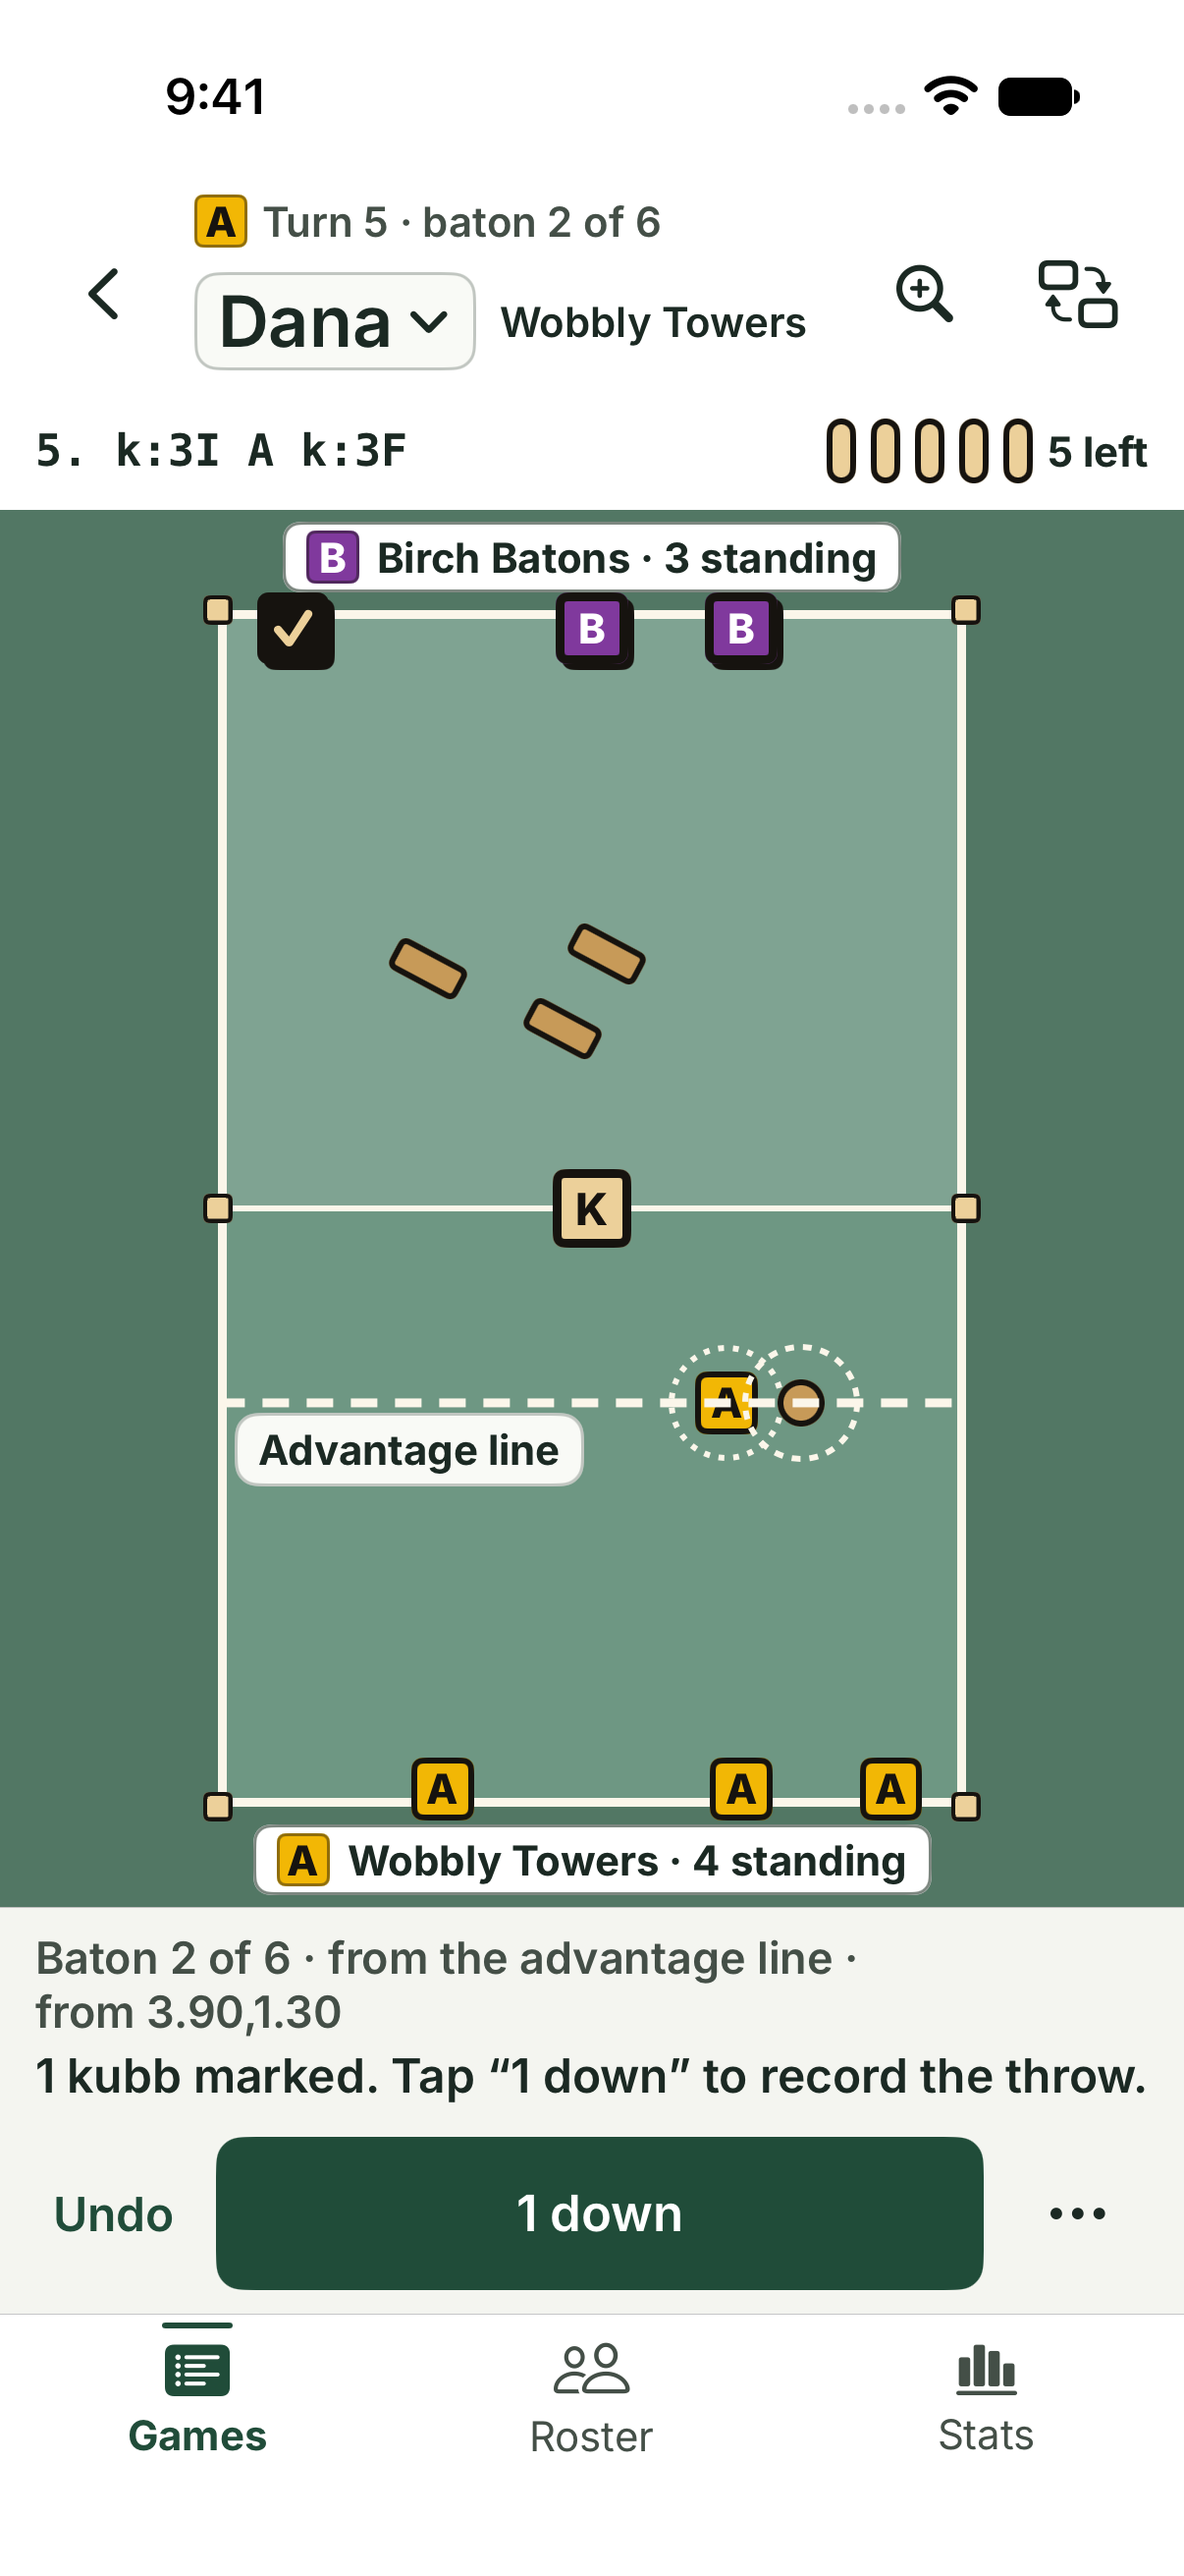
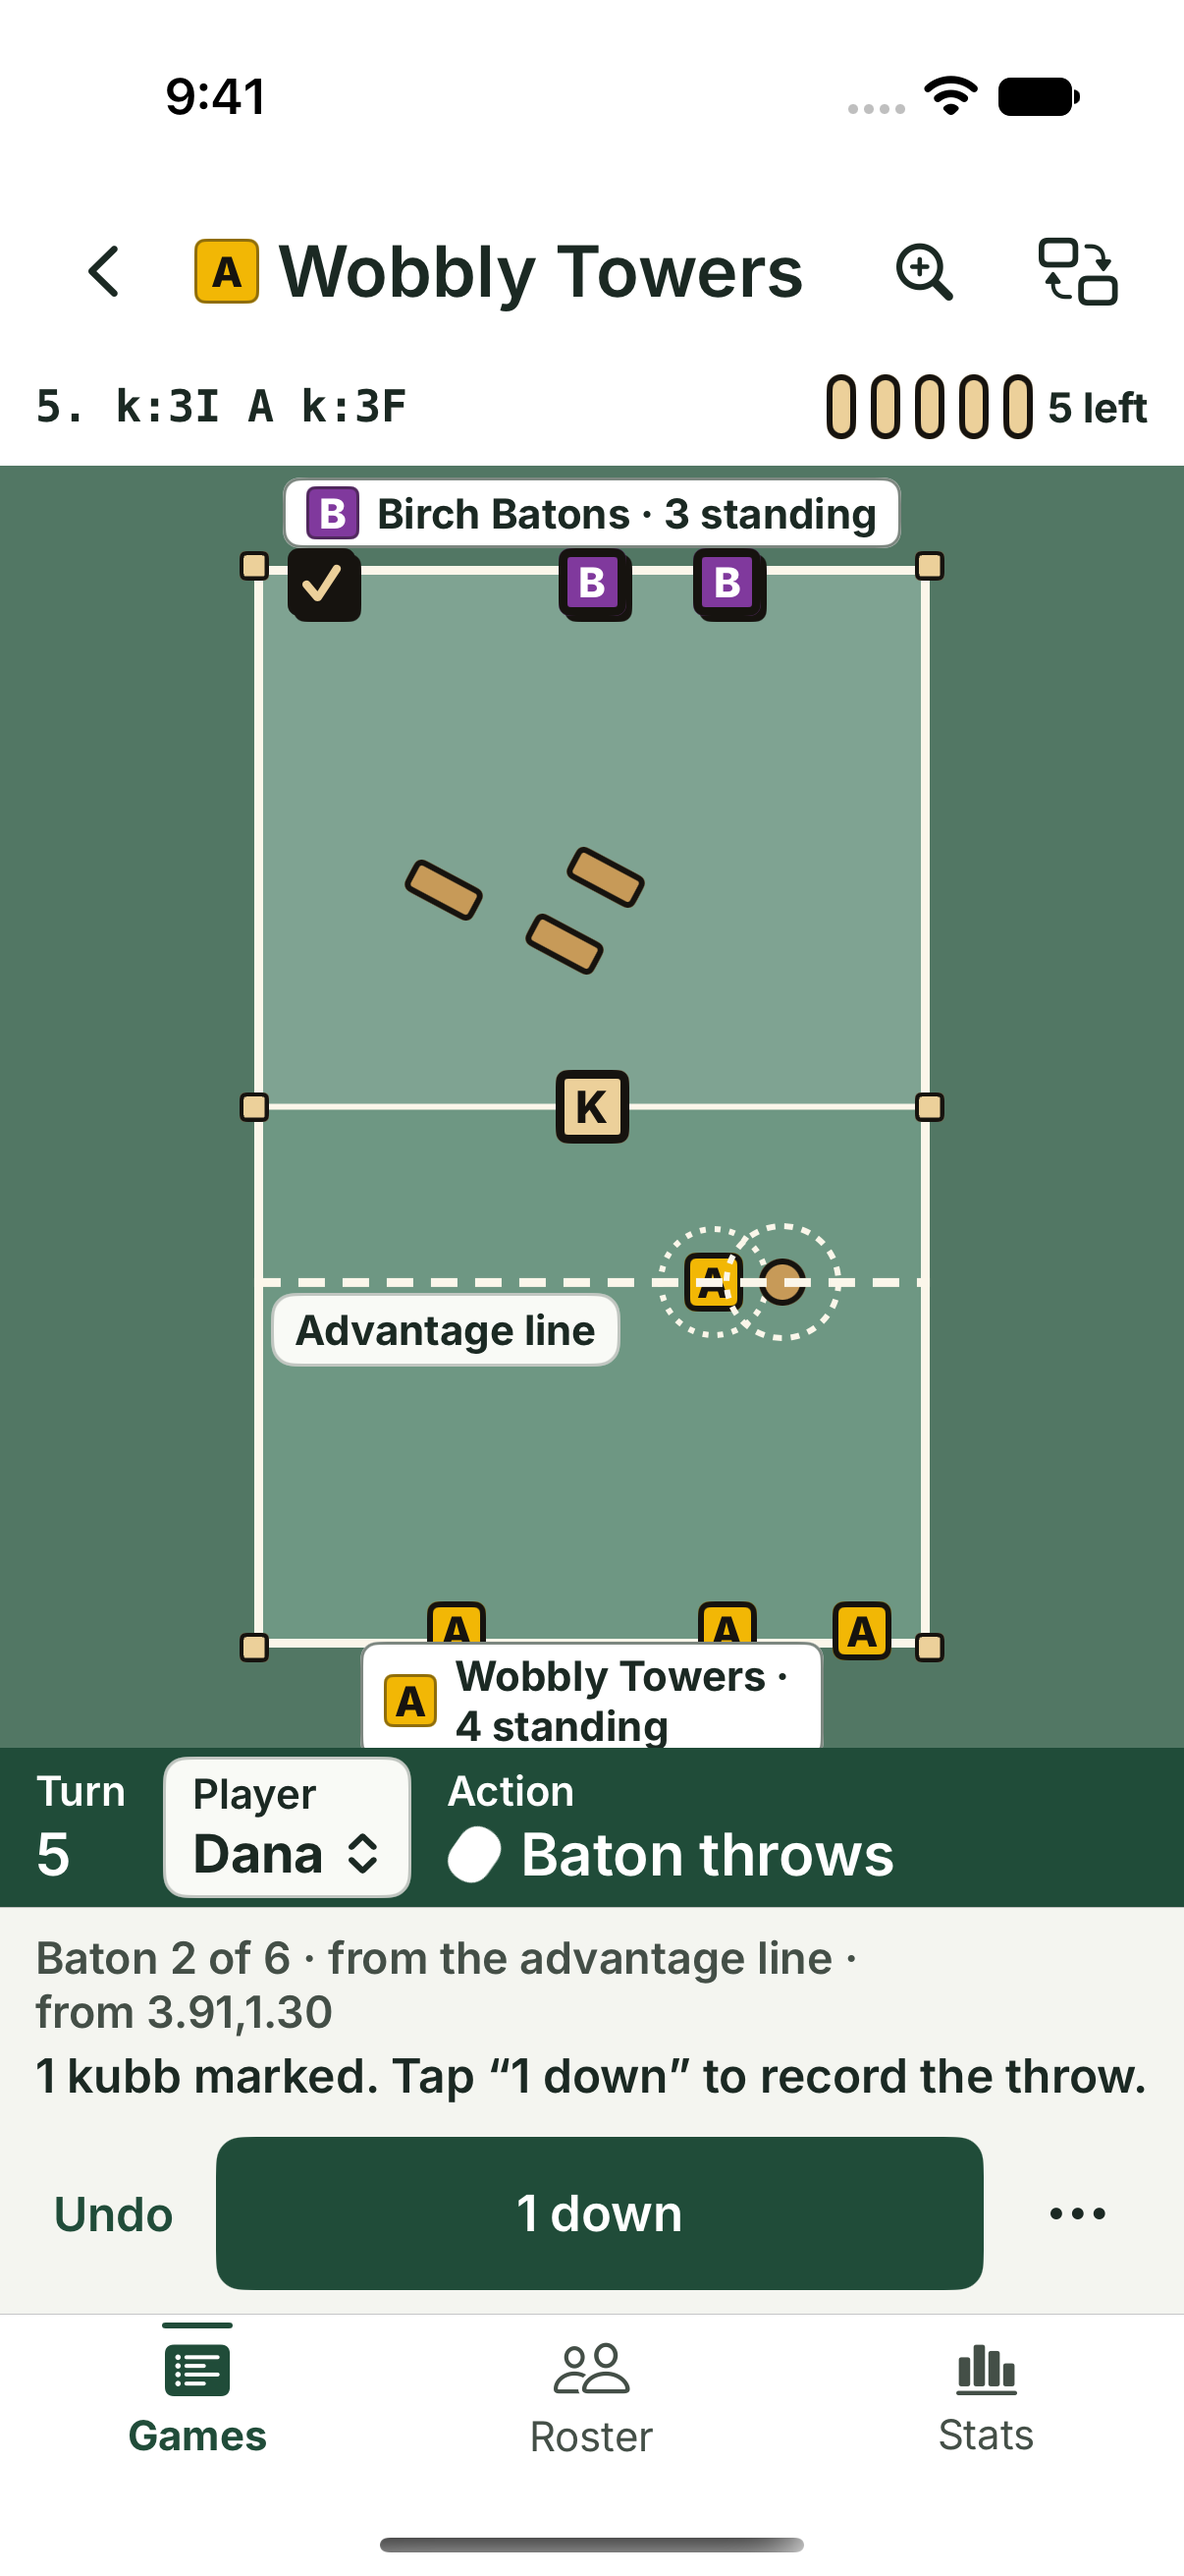
Present each throw as turn, player, and action

diff --git a/Pitchside/ScorerView.swift b/Pitchside/ScorerView.swift
@@ -5,6 +5,7 @@ import SwiftUI
 /// The band, pitch and thumb controls stay in place through every turn.
 struct ScorerView: View {
   @Environment(AppModel.self) private var model
+  @Environment(\.dynamicTypeSize) private var typeSize
   @State private var replay: GameReplay?
   @State private var screen: ScorerScreen
   @State private var timeline = false
@@ -33,24 +34,21 @@ struct ScorerView: View {
         VStack(spacing: 0) {
           VStack(spacing: 0) {
             header
-            batonBar
+            turnProgress
           }
           .padding(.horizontal, 12).padding(.bottom, 4)
           .background(Color.psPlate.ignoresSafeArea(edges: .top))
-          PitchCanvas(screen: screen, viewport: $viewport)
-            .frame(maxHeight: .infinity)
-            .overlay(alignment: .bottom) {
-              if screen.panel != .none && screen.panel != .pick {
-                ViewThatFits(in: .vertical) {
-                  panel.padding(12).fixedSize(horizontal: false, vertical: true)
-                  ScrollView { panel.padding(12) }.scrollBounceBehavior(.basedOnSize)
-                }
-                .background(Color.psGround)
-                .overlay(alignment: .top) { Divider().overlay(Color.psLine) }
+          if typeSize.isAccessibilitySize {
+            GeometryReader { area in
+              VStack(spacing: 0) {
+                pitch.frame(height: area.size.height * 0.4)
+                ScrollView { scoringControls }
               }
             }
-          prompt
-          bottomBar
+          } else {
+            pitch
+            scoringControls
+          }
         }
         .foregroundStyle(Color.psText)
         .background(Color.psGround)
@@ -61,33 +59,35 @@ struct ScorerView: View {
     .onChange(of: screen.over) { _, over in if over { close() } }
   }
 
+  private var pitch: some View {
+    PitchCanvas(screen: screen, viewport: $viewport)
+      .frame(maxHeight: .infinity)
+      .overlay(alignment: .bottom) {
+        if screen.panel != .none && screen.panel != .pick {
+          ViewThatFits(in: .vertical) {
+            panel.padding(12).fixedSize(horizontal: false, vertical: true)
+            ScrollView { panel.padding(12) }.scrollBounceBehavior(.basedOnSize)
+          }
+          .background(Color.psGround)
+          .overlay(alignment: .top) { Divider().overlay(Color.psLine) }
+        }
+      }
+  }
+
+  private var scoringControls: some View {
+    VStack(spacing: 0) {
+      if !screen.over { throwContext }
+      prompt
+      bottomBar
+    }
+  }
+
   var header: some View {
     HStack(spacing: 6) {
       icon("chevron.backward", "Back to Games", action: close)
-      VStack(alignment: .leading, spacing: 1) {
-        HStack(spacing: 5) {
-          TeamMarker(screen.attacker, size: 18)
-          Text(screen.header).font(PSFont.body(14, .semibold)).foregroundStyle(Color.psMuted)
-        }
-        if screen.playersOn, let player = screen.thrower, !screen.over {
-          HStack(spacing: 8) {
-            Button {
-              screen.panel = screen.panel == .pick ? .none : .pick
-            } label: {
-              HStack(spacing: 4) {
-                Text(player.name).font(PSFont.display(24))
-                Image(systemName: "chevron.down").font(.system(size: 14, weight: .bold))
-              }.padding(.horizontal, 8).padding(.vertical, 2).psBox()
-                .frame(minWidth: 48, minHeight: 48).contentShape(Rectangle())
-            }
-            .buttonStyle(.plain).accessibilityLabel("Change who throws")
-            .accessibilityValue(player.name)
-            Text(screen.teamName(screen.attacker)).font(PSFont.body(14, .semibold)).lineLimit(2)
-          }
-        } else {
-          Text(screen.teamName(screen.attacker)).font(PSFont.display(26)).lineLimit(2)
-        }
-      }.frame(maxWidth: .infinity, alignment: .leading)
+      TeamMarker(screen.attacker, size: 22)
+      Text(screen.teamName(screen.attacker)).font(PSFont.display(24)).lineLimit(2)
+        .frame(maxWidth: .infinity, alignment: .leading)
       HStack(spacing: 4) {
         icon(
           viewport.scale == 1 ? "plus.magnifyingglass" : "arrow.down.right.and.arrow.up.left",
@@ -108,22 +108,92 @@ struct ScorerView: View {
     .padding(.vertical, 4).frame(minHeight: 60)
   }
 
-  var batonBar: some View {
+  var turnProgress: some View {
     HStack(spacing: 5) {
       ScrollView(.horizontal) {
         Text("\(screen.state.turn). \(screen.tokens)").font(PSFont.mono(15).weight(.bold))
       }.scrollIndicators(.hidden).defaultScrollAnchor(.leading)
         .frame(maxWidth: .infinity, alignment: .leading)
-      ForEach(0..<screen.batonsLeft, id: \.self) { _ in
-        Capsule().fill(Color.psKubb).overlay(Capsule().strokeBorder(Color.psKubbInk, lineWidth: 2))
-          .frame(width: 10, height: 22)
+      if screen.isInkast {
+        Text("\(screen.state.inkast?.left ?? 0) to throw").font(PSFont.body(14, .bold))
+      } else if !screen.placing && !screen.punishPending {
+        if !typeSize.isAccessibilitySize {
+          ForEach(0..<screen.batonsLeft, id: \.self) { _ in
+            Capsule().fill(Color.psKubb).overlay(Capsule().strokeBorder(Color.psKubbInk, lineWidth: 2))
+              .frame(width: 10, height: 22)
+              .accessibilityHidden(true)
+          }
+        }
+        Text("\(screen.batonsLeft) left").font(PSFont.body(14, .bold))
+          .accessibilityLabel("\(screen.n(screen.batonsLeft, "baton")) left")
       }
-      Text("\(screen.batonsLeft) left").font(PSFont.body(14, .bold))
     }
     .frame(minHeight: 32)
-    .accessibilityElement(children: .ignore)
-    .accessibilityLabel(
-      "Turn \(screen.state.turn), \(screen.tokens), \(screen.batonsLeft) batons left")
+    .accessibilityElement(children: .combine)
+  }
+
+  private var throwContext: some View {
+    let handlesKubbs = screen.isInkast || screen.punishPending || screen.placing
+    let layout = typeSize.isAccessibilitySize
+      ? AnyLayout(VStackLayout(alignment: .leading, spacing: 2))
+      : AnyLayout(HStackLayout(spacing: 12))
+    return layout {
+      VStack(alignment: .leading, spacing: 1) {
+        Text("Turn").font(PSFont.body(14, .semibold, relativeTo: .footnote))
+        Text("\(screen.state.turn)").font(PSFont.display(20, relativeTo: .headline))
+      }
+      .accessibilityElement(children: .ignore)
+      .accessibilityLabel("Turn \(screen.state.turn)")
+      .accessibilityIdentifier("entry-turn")
+
+      if !screen.placing && !screen.punishPending {
+        if screen.playersOn, let player = screen.thrower {
+          Button {
+            screen.panel = screen.panel == .pick ? .none : .pick
+          } label: {
+            VStack(alignment: .leading, spacing: 1) {
+              Text("Player").font(PSFont.body(14, .semibold, relativeTo: .footnote))
+              HStack(spacing: 6) {
+                Text(player.name).font(PSFont.body(18, .bold, relativeTo: .headline))
+                Image(systemName: "chevron.up.chevron.down").font(.footnote.weight(.bold))
+              }
+            }
+            .padding(.horizontal, 10).padding(.vertical, 4)
+            .foregroundStyle(Color.psText).psBox()
+            .frame(minWidth: 48, minHeight: 48).contentShape(Rectangle())
+          }
+          .buttonStyle(.plain).accessibilityLabel("Change who throws").accessibilityValue(player.name)
+        } else {
+          VStack(alignment: .leading, spacing: 1) {
+            Text("Player").font(PSFont.body(14, .semibold, relativeTo: .footnote))
+            Text("Not tracked").font(PSFont.body(16, .semibold))
+          }
+          .accessibilityElement(children: .combine)
+        }
+      }
+
+      VStack(alignment: .leading, spacing: 1) {
+        Text("Action").font(PSFont.body(14, .semibold, relativeTo: .footnote))
+        HStack(spacing: 6) {
+          Image(systemName: handlesKubbs ? "cube.fill" : "capsule.portrait.fill")
+            .rotationEffect(.degrees(handlesKubbs ? 0 : 35))
+            .accessibilityHidden(true)
+          Text(screen.placing ? "Place kubbs" : (handlesKubbs ? "Inkast" : "Baton throws"))
+            .font(PSFont.display(20, relativeTo: .headline))
+            .accessibilityAddTraits(.isHeader)
+        }
+      }
+      .frame(maxWidth: .infinity, alignment: .leading)
+    }
+    .frame(maxWidth: .infinity, alignment: .leading)
+    .padding(.horizontal, 12).padding(.vertical, 3)
+    .frame(minHeight: 48)
+    .fixedSize(horizontal: false, vertical: true)
+    .foregroundStyle(handlesKubbs ? Color.psText : Color.psOnSolid)
+    .background(handlesKubbs ? Color.psWood : Color.psSolid)
+    .onChange(of: screen.firstBatonAfterInkast) { _, starts in
+      if starts { AccessibilityNotification.Announcement("Inkast complete. Throw batons.").post() }
+    }
   }
 
   @ViewBuilder var prompt: some View {
@@ -138,12 +208,17 @@ struct ScorerView: View {
             ForEach(screen.players, id: \.id) { p in
               Button(p.name) { screen.choose(p) }
                 .buttonStyle(PSButtonStyle(solid: screen.thrower?.id == p.id, minHeight: 48))
+                .accessibilityAddTraits(screen.thrower?.id == p.id ? [.isSelected] : [])
             }
           }.padding(.trailing, 4).padding(.bottom, 4)
         }.scrollIndicators(.hidden)
       } else {
         HStack {
           VStack(alignment: .leading, spacing: 3) {
+            if screen.firstBatonAfterInkast {
+              Label("Inkast complete", systemImage: "checkmark.circle.fill")
+                .font(PSFont.body(16, .bold)).foregroundStyle(Color.psSolid)
+            }
             Text(screen.kick).psKick()
             Text(screen.problem ?? screen.text).font(PSFont.body(16, .semibold))
           }.frame(maxWidth: .infinity, alignment: .leading)
@@ -191,7 +266,10 @@ struct ScorerView: View {
   }
 
   var bottomBar: some View {
-    HStack(spacing: 8) {
+    let layout = typeSize >= .accessibility2
+      ? AnyLayout(VStackLayout(spacing: 4))
+      : AnyLayout(HStackLayout(spacing: 8))
+    return layout {
       if screen.redoAction != nil {
         icon("arrow.uturn.backward", "Undo", action: screen.undo).disabled(screen.undoAction == nil)
         icon("arrow.uturn.forward", "Redo", action: screen.redo)

diff --git a/PitchsideUITests/ScoringTests.swift b/PitchsideUITests/ScoringTests.swift
@@ -59,11 +59,21 @@ final class ScoringTests: XCTestCase {
   func testWorkedGameAndViews() {
     launch("scorer", after: 0)
 
-    // Establish the first four turns of the design through the same controls as turn five.
+    // The turn changes after the second opening baton. The next entry belongs to Team B's inkaster.
+    let turn = app.descendants(matching: .any)["entry-turn"]
+    let player = app.buttons["Change who throws"]
+    XCTAssertEqual(turn.label, "Turn 1")
+    XCTAssertEqual(player.value as? String, "Kim")
+    XCTAssertFalse(app.staticTexts["Inkast complete"].exists)
     tap("bB1")
     tap("1 down")
+    XCTAssertEqual(turn.label, "Turn 1")
+    XCTAssertEqual(player.value as? String, "Dana")
     tap("bB3")
     tap("1 down")
+    XCTAssertEqual(turn.label, "Turn 2")
+    XCTAssertEqual(player.value as? String, "Sam")
+    XCTAssertTrue(app.staticTexts["Inkast"].exists)
     spot(1.2, 1.6)
     spot(3.6, 2.9)
     tap("fA0")
@@ -206,17 +216,43 @@ final class ScoringTests: XCTestCase {
   func testPlaceInkastOnZoomedPitch() {
     launch("scorer", after: 28)
     let pitch = app.descendants(matching: .any).matching(identifier: "pitch").firstMatch
+    let thrower = app.buttons["Change who throws"]
+    let turn = app.descendants(matching: .any)["entry-turn"]
+    let inkast = app.staticTexts["Inkast"]
+    XCTAssertEqual(turn.label, "Turn 5")
+    XCTAssertTrue(inkast.exists)
+    // The strip reads across at standard sizes and down at accessibility sizes.
+    XCTAssertTrue(turn.frame.maxX <= thrower.frame.minX || turn.frame.maxY <= thrower.frame.minY)
+    XCTAssertTrue(thrower.frame.maxX <= inkast.frame.minX || thrower.frame.maxY <= inkast.frame.minY)
+    XCTAssertEqual(thrower.value as? String, "Kim")
+    XCTAssertGreaterThanOrEqual(thrower.frame.minY, pitch.frame.maxY - 1)
+    tap("Change who throws")
+    tap("Dana")
+    XCTAssertEqual(thrower.value as? String, "Dana")
     let frame = pitch.frame
     let unit = min((frame.width - 68) / 5, (frame.height - 68) / 8)
     tap("Zoom in on pitch")
     // The one-handed 2× view centres Team B's half. Three taps in cell (1, 2)
     // must come back there after returning to the fitted pitch.
     let point = CGVector(dx: frame.midX - 2 * unit, dy: frame.midY - unit)
-    for _ in 0..<3 { app.coordinate(withNormalizedOffset: .zero).withOffset(point).tap() }
+    let landing = app.coordinate(withNormalizedOffset: .zero).withOffset(point)
+    for _ in 0..<2 { landing.tap() }
+    XCTAssertTrue(app.staticTexts["Inkast"].exists)
+    XCTAssertEqual(thrower.value as? String, "Dana")
+    landing.tap()
+    XCTAssertTrue(app.staticTexts["Baton throws"].exists)
+    XCTAssertTrue(app.staticTexts["Inkast complete"].exists)
+    XCTAssertEqual(thrower.value as? String, "Kim")
     tap("Fit whole pitch")
     for i in 0..<3 {
       XCTAssertTrue(app.buttons["fB" + String(i)].label.contains("across 1, depth 2"))
     }
+    tap("Miss")
+    XCTAssertFalse(app.staticTexts["Inkast complete"].exists)
+    XCTAssertEqual(turn.label, "Turn 5")
+    XCTAssertEqual(thrower.value as? String, "Dana")
+    tap("Undo")
+    XCTAssertTrue(app.staticTexts["Inkast complete"].exists)
   }
 
   func testMiddleOfClusterSurvivesReopenAndReplay() {
@@ -387,7 +423,11 @@ final class ScoringTests: XCTestCase {
     tap("Out again")
     XCTAssertTrue(
       app.buttons.matching(NSPredicate(format: "label ==[c] 'Place it later'")).firstMatch.exists)
+    XCTAssertTrue(app.staticTexts["Inkast"].exists)
+    XCTAssertFalse(app.staticTexts["Inkast complete"].exists)
+    XCTAssertFalse(app.buttons["Change who throws"].exists)
     tap("Place it later")
+    XCTAssertTrue(app.staticTexts["Inkast complete"].exists)
     XCTAssertTrue(app.buttons["bB0"].exists)
     let unknown = app.buttons.matching(NSPredicate(format: "label ==[c] 'Count field kubbs'")).firstMatch
     XCTAssertTrue(unknown.waitForExistence(timeout: 3), app.debugDescription)

diff --git a/Pitchside/ScorerScreen.swift b/Pitchside/ScorerScreen.swift
@@ -145,12 +145,10 @@ final class ScorerScreen {
 
   func n(_ count: Int, _ word: String) -> String { "\(count) \(word)\(count == 1 ? "" : "s")" }
 
-  var header: String {
-    let t = "Turn \(state.turn) · "
-    if over { return "Turn \(state.turn) · game over" }
-    if isInkast { return t + "inkast · \(state.inkast?.left ?? 0) to throw" }
-    let b = "baton \(state.next.n ?? 1) of \(state.next.of ?? 6)"
-    return t + b + (isKingShot ? " · king" : "")
+  /// The handoff stays visible until the first baton is recorded, including after a resume or undo.
+  var firstBatonAfterInkast: Bool {
+    state.next.kind == "baton" && state.next.n == 1 && (state.inkast?.dueAtStart ?? 0) > 0
+      && !punishPending && !placing
   }
 
   var kick: String {

diff --git a/README.md b/README.md
@@ -3,7 +3,9 @@
 Pitchside is an iPhone scorekeeper for real games of kubb. Tap the kubbs that fell,
 record a miss, or mark where a throw landed. Pinch to zoom into a drilled group
 and tap the individual kubb that fell. Locally scored games remember each
-standing placement for replay. Undo a throw in one tap or correct an
+standing placement for replay. Each entry shows the turn, player, and action in order.
+When you track who threw, tap the suggested player beside the action to change it. “Inkast complete”
+stays visible until you record the first baton. Undo a throw in one tap or correct an
 earlier turn in the timeline, even after the game finishes. Switch between Games,
 Roster and Stats while scoring, then return to the throw you were marking.
 In locally scored games, each inkast throw, rethrow and punishment placement has its
